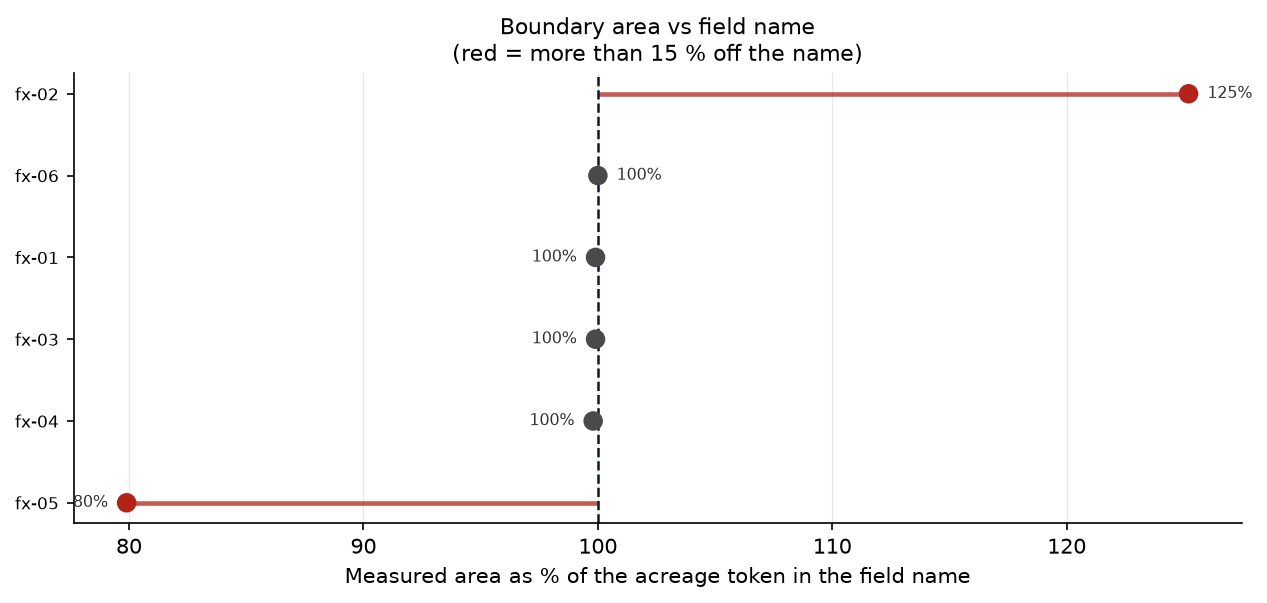
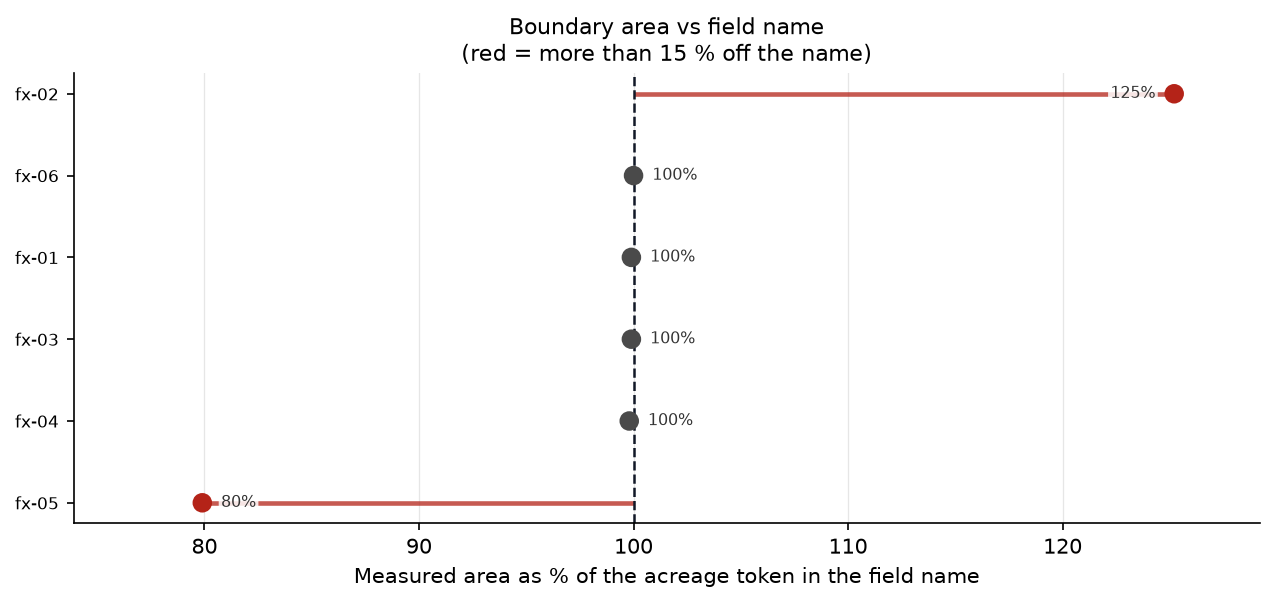
Fix label collisions in eda-field boundary figures
Real 10-field pass exposed three readability problems that the six-field
fixture did not: value labels clipped by long field names, stacked labels on
near-identical compactness values, and an unreadable legend over the data.

- area ratio: place values on the roomier side with a white pad, add x padding
- shape: greedy eight-corner label placement checked against marker and label
  boxes, sort points by part count/compactness, legend above the data
- adjacency: label every gap under 600 m, not only cells under 250 m

Re-rendered the committed area-ratio demo and reviewed it: PASS (no clipped
text, 100 % reference and 15 % threshold legible). Real outputs re-run and
reviewed: boundaries map/area/shape/adjacency, CDL matrix/purity/rotation,
weather GDD/precip/variance all clear; guards fire as designed.

Smoke test PASS; validate.sh 44 pass / 0 warn / 0 fail.

diff --git a/my-farm-advisor/eda/eda-field/scripts/field_eda.py b/my-farm-advisor/eda/eda-field/scripts/field_eda.py
@@ -37,6 +37,7 @@ import matplotlib
 matplotlib.use("Agg")
 import matplotlib.pyplot as plt
 import numpy as np
+from matplotlib.transforms import Bbox
 import pandas as pd
 from scipy import stats
 
@@ -296,8 +297,11 @@ def plot_boundary_area_ratio(metrics: pd.DataFrame, png: Path, csv: Path) -> Non
     ax.axvline(100, color="#111827", linewidth=1.2, linestyle="--")
     ax.set_yticks(y)
     ax.set_yticklabels(data["field_id"], fontsize=8)
+    right_edge = float(data["ratio_to_name_pct"].max())
     for yi, (_, row) in zip(y, data.iterrows()):
-        offset = 9 if row["ratio_to_name_pct"] >= 100 else -9
+        # Put the value on the roomier side; a white pad keeps it legible over
+        # the stem line and clear of long field names on the left.
+        offset = -9 if row["ratio_to_name_pct"] > right_edge - 6 else 9
         ax.annotate(
             f"{row['ratio_to_name_pct']:.0f}%",
             (row["ratio_to_name_pct"], yi),
@@ -307,7 +311,9 @@ def plot_boundary_area_ratio(metrics: pd.DataFrame, png: Path, csv: Path) -> Non
             ha="left" if offset > 0 else "right",
             fontsize=7.5,
             color="#333333",
+            bbox=dict(boxstyle="round,pad=0.15", fc="white", ec="none", alpha=0.85),
         )
+    ax.set_xlim(float(data["ratio_to_name_pct"].min()) - 6, right_edge + 4)
     ax.set_xlabel("Measured area as % of the acreage token in the field name")
     ax.set_title("Boundary area vs field name\n(red = more than 15 % off the name)", fontsize=10.5)
     ax.grid(True, axis="x", color="#e6e6e6", linewidth=0.6)
@@ -320,7 +326,7 @@ def plot_boundary_area_ratio(metrics: pd.DataFrame, png: Path, csv: Path) -> Non
 
 def plot_boundary_shape(metrics: pd.DataFrame, png: Path, csv: Path) -> None:
     """Story: fragmented or sliver-shaped fields distort any pixel statistic."""
-    data = metrics.copy()
+    data = metrics.sort_values(["part_count", "compactness"]).reset_index(drop=True)
     _write_csv(data, csv)
     fig, ax = plt.subplots(figsize=(8.4, 5.2), dpi=150)
     # Bubble AREA carries acreage, but the range is compressed: raw acres make
@@ -328,6 +334,7 @@ def plot_boundary_shape(metrics: pd.DataFrame, png: Path, csv: Path) -> None:
     span = float(data["area_acres"].max() - data["area_acres"].min()) or 1.0
     sizes = 45 + 110 * (data["area_acres"] - data["area_acres"].min()) / span
     jitter = np.linspace(-0.12, 0.12, len(data))
+    column_rank = data.groupby("part_count").cumcount().to_numpy()
     ax.scatter(
         data["part_count"] + jitter,
         data["compactness"],
@@ -338,16 +345,47 @@ def plot_boundary_shape(metrics: pd.DataFrame, png: Path, csv: Path) -> None:
         alpha=0.9,
         zorder=3,
     )
-    for (_, row), dx in zip(data.iterrows(), jitter):
-        ax.annotate(
-            row["field_id"],
-            (row["part_count"] + dx, row["compactness"]),
-            xytext=(10, 7),
-            textcoords="offset points",
-            fontsize=7.2,
-            color="#222222",
-            bbox=dict(boxstyle="round,pad=0.15", fc="white", ec="none", alpha=0.8),
-        )
+    # Place labels greedily: try eight corners, keep the first box that stays
+    # inside the axes and clears every marker and earlier label. Two fields can
+    # sit within a hundredth of each other, so a fixed offset is not enough.
+    fig.canvas.draw()
+    renderer = fig.canvas.get_renderer()
+    point_px = fig.dpi / 72.0
+    occupied = []
+    for x, y, size in zip(data["part_count"] + jitter, data["compactness"], sizes):
+        px, py = ax.transData.transform((x, y))
+        radius = (np.sqrt(size) / 2 + 2) * point_px
+        occupied.append(Bbox.from_extents(px - radius, py - radius, px + radius, py + radius))
+    axes_box = ax.get_window_extent(renderer)
+    candidates = [(9, 7), (9, -12), (-9, 7), (-9, -12),
+                  (9, 20), (-9, 20), (9, -25), (-9, -25)]
+    fallback = [(10, 7), (10, -12), (-10, 7), (-10, -12)]
+    for (_, row), dx, rank in zip(data.iterrows(), jitter, column_rank):
+        anchor = (row["part_count"] + dx, row["compactness"])
+        placed = False
+        for ox, oy in candidates:
+            text = ax.annotate(
+                row["field_id"], anchor, xytext=(ox, oy), textcoords="offset points",
+                ha="left" if ox > 0 else "right", va="center",
+                fontsize=7.2, color="#222222", zorder=4,
+                bbox=dict(boxstyle="round,pad=0.15", fc="white", ec="none", alpha=0.85),
+            )
+            box = text.get_window_extent(renderer)
+            inside = (axes_box.x0 <= box.x0 and box.x1 <= axes_box.x1
+                      and axes_box.y0 <= box.y0 and box.y1 <= axes_box.y1)
+            if inside and not any(box.overlaps(other) for other in occupied):
+                occupied.append(box)
+                placed = True
+                break
+            text.remove()
+        if not placed:
+            ox, oy = fallback[int(rank) % len(fallback)]
+            ax.annotate(
+                row["field_id"], anchor, xytext=(ox, oy), textcoords="offset points",
+                ha="left" if ox > 0 else "right", va="center",
+                fontsize=7.2, color="#222222", zorder=4,
+                bbox=dict(boxstyle="round,pad=0.15", fc="white", ec="none", alpha=0.85),
+            )
     ax.set_xlabel("Polygon part count (1 = single boundary)")
     ax.set_ylabel("Polsby–Popper compactness (1.0 = circle)")
     ax.set_xticks(sorted(data["part_count"].unique()))
@@ -364,7 +402,7 @@ def plot_boundary_shape(metrics: pd.DataFrame, png: Path, csv: Path) -> None:
                        markerfacecolor=_crop_color(c), markeredgecolor="#1f1f1f", label=c)
             for c in crops
         ],
-        loc="lower right", fontsize=7.5, frameon=False, title="2026 crop", title_fontsize=7.5,
+        loc="upper right", fontsize=7.5, frameon=False, title="2026 crop", title_fontsize=7.5,
     )
     fig.tight_layout()
     _save(fig, png)
@@ -393,13 +431,13 @@ def plot_boundary_adjacency(pairs: pd.DataFrame, png: Path, csv: Path) -> None:
         for j in range(len(ids)):
             if np.isnan(matrix[i, j]):
                 continue
-            if matrix[i, j] <= 250:
+            if matrix[i, j] < 600:
                 ax.text(j, i, f"{matrix[i, j]:.0f}", ha="center", va="center",
-                        fontsize=6.4, color="white" if matrix[i, j] < 150 else "#1f1f1f")
+                        fontsize=6.0, color="white" if matrix[i, j] < 150 else "#1f1f1f")
     colorbar = fig.colorbar(image, ax=ax, pad=0.02, fraction=0.046)
     colorbar.set_label("Edge-to-edge gap (m; ≥600 shown pale)", fontsize=7.5)
     colorbar.ax.tick_params(labelsize=7)
-    ax.set_title("Field separation\n(labelled cells are within 250 m)", fontsize=9.5)
+    ax.set_title("Field separation\n(numbers = gap in metres)", fontsize=9.5)
     ax.set_xlabel("field", fontsize=8)
     ax.set_ylabel("field", fontsize=8)
     ax.set_aspect("equal")
